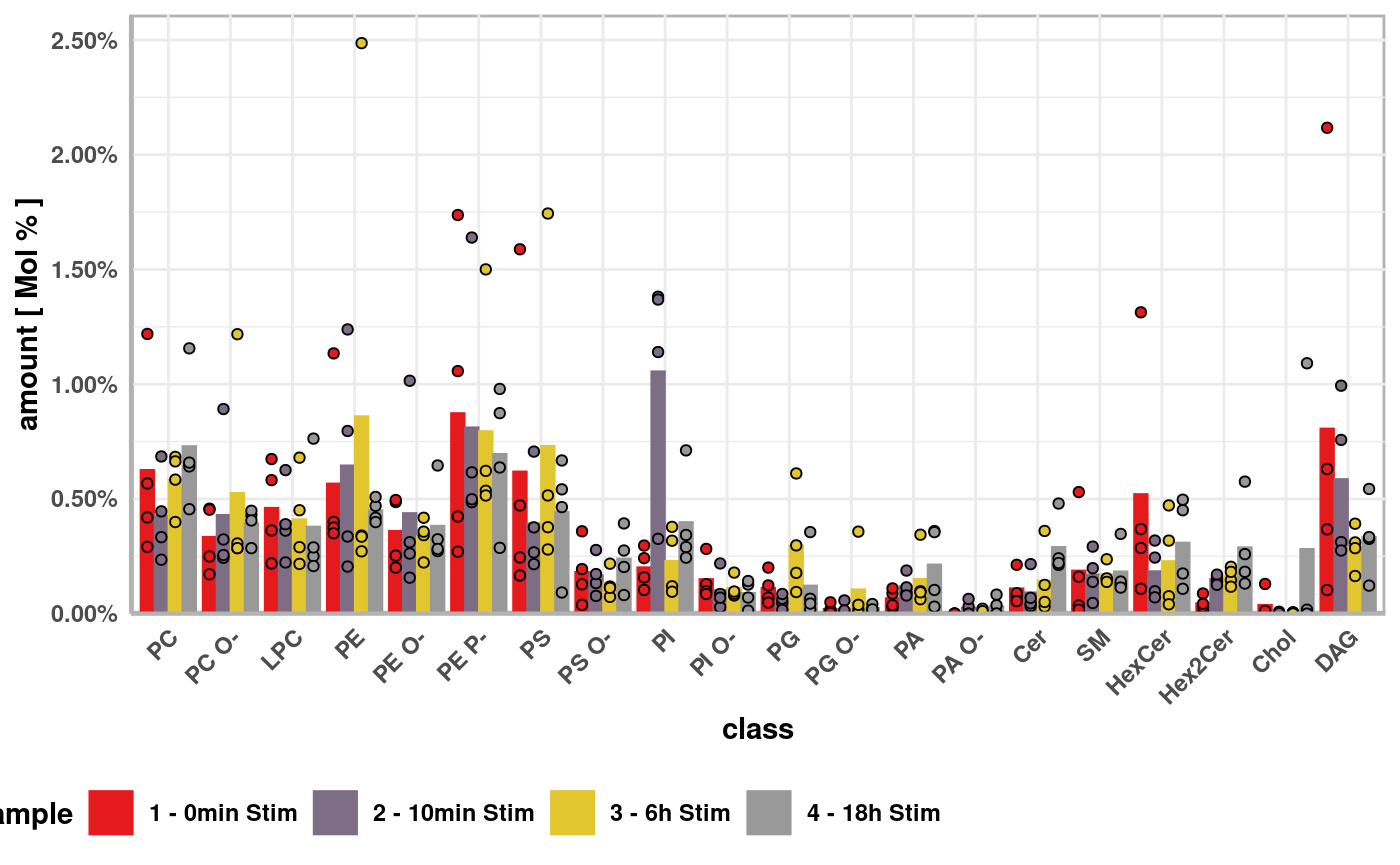
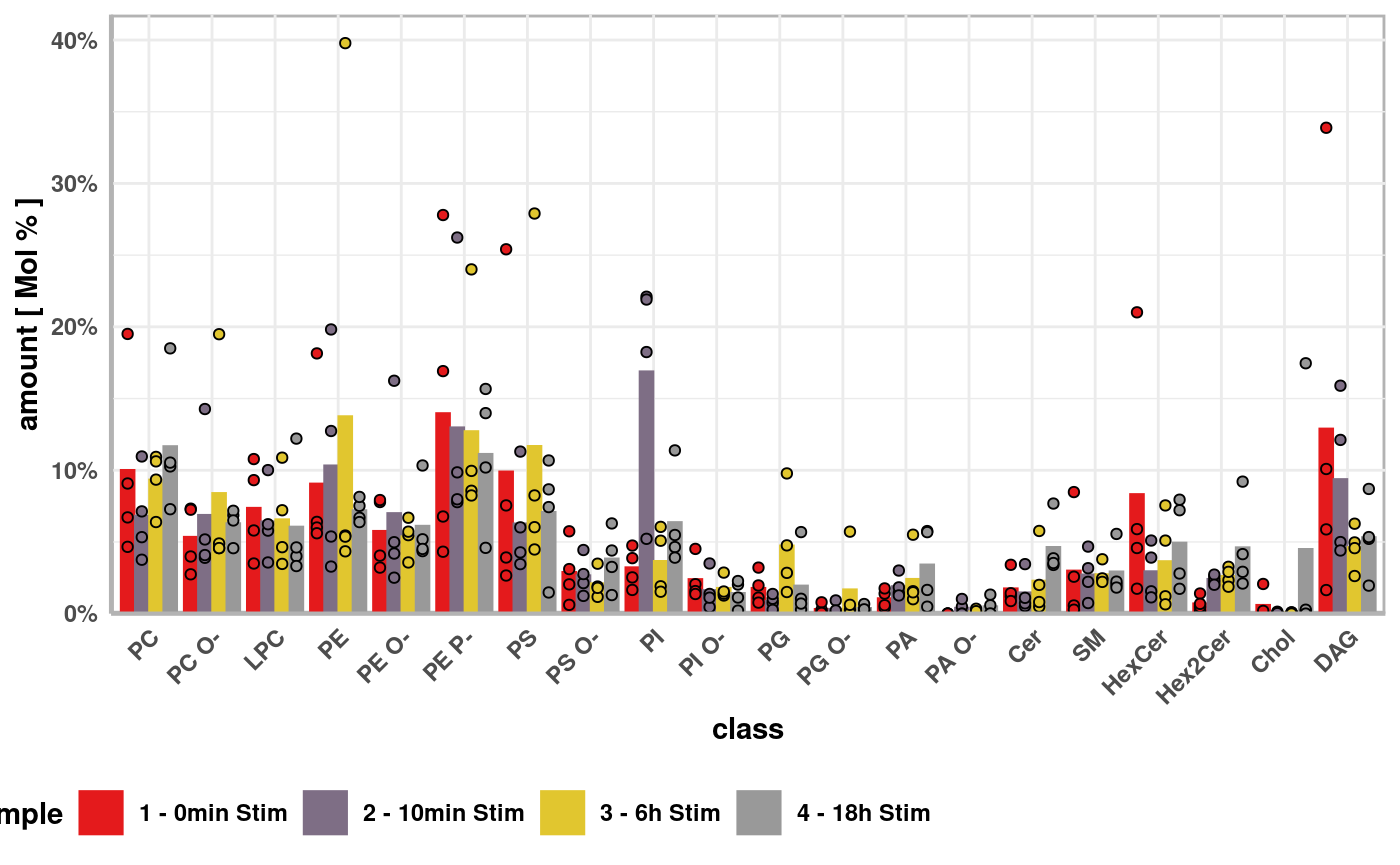
update documentation

diff --git a/docs/articles/Data-processing-in-ShinyLipids.html b/docs/articles/Data-processing-in-ShinyLipids.html
@@ -136,30 +136,30 @@
   <span class="fu"><a href="../reference/addLipidProperties.html">addLipidProperties</a></span>() <span class="kw">%&gt;%</span>
   <span class="fu"><a href="../reference/standardizeWithinTechnicalReplicatesIf.html">standardizeWithinTechnicalReplicatesIf</a></span>(<span class="no">input</span>) <span class="kw">%&gt;%</span>
   <span class="fu"><a href="../reference/filterRawDataFor.html">filterRawDataFor</a></span>(<span class="no">input</span>) <span class="kw">%&gt;%</span>
-  <span class="fu"><a href="../reference/standardizeRawDataWithin.html">standardizeRawDataWithin</a></span>(<span class="no">input</span>) <span class="kw">%&gt;%</span>
+  <span class="fu"><a href="../reference/standardizeWithin.html">standardizeWithin</a></span>(<span class="no">input</span>) <span class="kw">%&gt;%</span>
   <span class="fu"><a href="../reference/createPlotData.html">createPlotData</a></span>(<span class="no">input</span>)
 
 <span class="fu"><a href="https://rdrr.io/r/utils/head.html">head</a></span>(<span class="no">plotData</span>)
 <span class="co">#&gt; # A tibble: 6 x 4</span>
 <span class="co">#&gt;   class sample         sample_replicate value</span>
 <span class="co">#&gt;   &lt;fct&gt; &lt;fct&gt;          &lt;fct&gt;            &lt;dbl&gt;</span>
-<span class="co">#&gt; 1 PC    1 - 0min Stim  1 - 0min Stim_A  0.567</span>
-<span class="co">#&gt; 2 PC    1 - 0min Stim  1 - 0min Stim_B  0.420</span>
-<span class="co">#&gt; 3 PC    1 - 0min Stim  1 - 0min Stim_C  0.291</span>
-<span class="co">#&gt; 4 PC    1 - 0min Stim  1 - 0min Stim_D  1.22 </span>
-<span class="co">#&gt; 5 PC    2 - 10min Stim 2 - 10min Stim_A 0.235</span>
-<span class="co">#&gt; 6 PC    2 - 10min Stim 2 - 10min Stim_B 0.333</span></pre></body></html></div>
+<span class="co">#&gt; 1 PC    1 - 0min Stim  1 - 0min Stim_A   9.08</span>
+<span class="co">#&gt; 2 PC    1 - 0min Stim  1 - 0min Stim_B   6.71</span>
+<span class="co">#&gt; 3 PC    1 - 0min Stim  1 - 0min Stim_C   4.66</span>
+<span class="co">#&gt; 4 PC    1 - 0min Stim  1 - 0min Stim_D  19.5 </span>
+<span class="co">#&gt; 5 PC    2 - 10min Stim 2 - 10min Stim_A  3.76</span>
+<span class="co">#&gt; 6 PC    2 - 10min Stim 2 - 10min Stim_B  5.34</span></pre></body></html></div>
 <div class="sourceCode" id="cb7"><html><body><pre class="r"><span class="no">meanPlotData</span> <span class="kw">&lt;-</span> <span class="fu"><a href="../reference/summarisePlotData.html">summarisePlotData</a></span>(<span class="no">plotData</span>, <span class="no">input</span>)
 <span class="fu"><a href="https://rdrr.io/r/utils/head.html">head</a></span>(<span class="no">meanPlotData</span>)
 <span class="co">#&gt; # A tibble: 6 x 8</span>
-<span class="co">#&gt;   class sample            SD    SEM     N value CI_lower CI_upper</span>
-<span class="co">#&gt;   &lt;fct&gt; &lt;fct&gt;          &lt;dbl&gt;  &lt;dbl&gt; &lt;int&gt; &lt;dbl&gt;    &lt;dbl&gt;    &lt;dbl&gt;</span>
-<span class="co">#&gt; 1 PC    1 - 0min Stim  0.412 0.103      4 0.624    0.296    0.952</span>
-<span class="co">#&gt; 2 PC    2 - 10min Stim 0.194 0.0484     4 0.425    0.271    0.579</span>
-<span class="co">#&gt; 3 PC    3 - 6h Stim    0.129 0.0324     4 0.583    0.480    0.686</span>
-<span class="co">#&gt; 4 PC    4 - 18h Stim   0.300 0.0750     4 0.728    0.489    0.967</span>
-<span class="co">#&gt; 5 PC O- 1 - 0min Stim  0.145 0.0363     4 0.333    0.218    0.448</span>
-<span class="co">#&gt; 6 PC O- 2 - 10min Stim 0.311 0.0777     4 0.429    0.181    0.676</span></pre></body></html></div>
+<span class="co">#&gt;   class sample            SD   SEM     N value CI_lower CI_upper</span>
+<span class="co">#&gt;   &lt;fct&gt; &lt;fct&gt;          &lt;dbl&gt; &lt;dbl&gt; &lt;int&gt; &lt;dbl&gt;    &lt;dbl&gt;    &lt;dbl&gt;</span>
+<span class="co">#&gt; 1 PC    1 - 0min Stim   6.60 1.65      4  9.99     4.74    15.2 </span>
+<span class="co">#&gt; 2 PC    2 - 10min Stim  3.10 0.775     4  6.80     4.33     9.26</span>
+<span class="co">#&gt; 3 PC    3 - 6h Stim     2.07 0.518     4  9.32     7.67    11.0 </span>
+<span class="co">#&gt; 4 PC    4 - 18h Stim    4.80 1.20      4 11.6      7.83    15.5 </span>
+<span class="co">#&gt; 5 PC O- 1 - 0min Stim   2.32 0.580     4  5.33     3.48     7.17</span>
+<span class="co">#&gt; 6 PC O- 2 - 10min Stim  4.97 1.24      4  6.86     2.90    10.8</span></pre></body></html></div>
 <div class="sourceCode" id="cb8"><html><body><pre class="r"><span class="no">plt</span> <span class="kw">&lt;-</span> <span class="fu"><a href="../reference/createMainPlot.html">createMainPlot</a></span>(<span class="kw">plotData</span>            <span class="kw">=</span> <span class="no">plotData</span>,
                       <span class="kw">meanPlotData</span>        <span class="kw">=</span> <span class="no">meanPlotData</span>,
                       <span class="kw">pairwiseComparisons</span> <span class="kw">=</span> <span class="kw">NULL</span>,

diff --git a/docs/articles/Technical-aspects.html b/docs/articles/Technical-aspects.html
@@ -113,8 +113,8 @@
 <div id="how-data-flows-in-shinylipids" class="section level1">
 <h1 class="hasAnchor">
 <a href="#how-data-flows-in-shinylipids" class="anchor"></a>How data flows in ShinyLipids</h1>
-<div id="htmlwidget-a2ab9fd659c4cae1abc1" style="width:700px;height:432.632880098888px;" class="grViz html-widget"></div>
-<script type="application/json" data-for="htmlwidget-a2ab9fd659c4cae1abc1">{"x":{"diagram":"digraph {\n\ngraph [layout = dot, rankdir = TB]\nnode [shape = rectangle, style = filled, fillcolor = cadetblue1]\nedge [color = darkslategrey]\n\ndb [label = \"Database\", shape = cylinder, fillcolor = cadetblue]\n\nui [label = \"UI\", fillcolor = darkslategrey,\n  fontcolor = white]\nip [label = \"input :: list\", shape = circle,\n  fillcolor = darkslategrey,\n  fontcolor = white]\nvoid [label = \"()\", shape = circle,\n  fillcolor = white]\ndh [label = \"downloadHandlers\", shape = invhouse,\n  fillcolor = white]\n\n\nvoid -> ui [label = \"defaultInput()\",\n  color = black]\nui -> ip [color = black, label = \"user action\"]\n\ndb -> metaData [label = \"collectMetadata\"]\ndb -> rawData [label = \"collectRawData %>% imputeMissingIf %>% addLipidProperties\"]\nrawData -> filteredData [label = \"standardizeWithinTechnicalReplicatesIf %>% filterRawDataFor\"]\n\nfilteredData -> mainData [\n  label = \"standardizeRawDataWithin\"\n]\nmainData -> plotData [\n  label = \"createPlotData\"\n]\nplotData -> meanPlotData [\n  label = \"summarisePlotData\"\n]\nplotData -> pairwiseComparisons [\n  label = \"doAllPairwiseComparisons\"\n]\npairwiseComparisons -> mainPlot\nmeanPlotData -> mainPlot\nplotData -> mainPlot [\n  label = \"createMainPlot\"\n]\nplotData -> heatmapPlot [\n  label = \"createHeatmap\"\n]\nplotData -> wideData [\n  label = \"createWideData\"\n]\nwideData -> pcaPrep [\n  label = \"createPcaPrep\"\n]\npcaPrep -> pcaTidy [color = black]\npcaPrep -> pcaJuice [color = black]\n{pcaTidy, pcaJuice} -> pcaScoresPlot\npcaTidy -> pcaLoadinsPlot\n\nmetaData -> dh\nrawData -> dh\nmainData -> dh\nmeanPlotData -> dh\nmainPlot -> dh\nheatmapPlot -> dh\npcaScoresPlot -> dh\npcaLoadinsPlot -> dh\n\n\n}","config":{"engine":"dot","options":null}},"evals":[],"jsHooks":[]}</script>
+<div id="htmlwidget-2580c541581a811fb32a" style="width:700px;height:432.632880098888px;" class="grViz html-widget"></div>
+<script type="application/json" data-for="htmlwidget-2580c541581a811fb32a">{"x":{"diagram":"digraph {\n\ngraph [layout = dot, rankdir = TB]\nnode [shape = rectangle, style = filled, fillcolor = cadetblue1]\nedge [color = darkslategrey]\n\ndb [label = \"Database\", shape = cylinder, fillcolor = cadetblue]\n\nui [label = \"UI\", fillcolor = darkslategrey,\n  fontcolor = white]\nip [label = \"input :: list\", shape = circle,\n  fillcolor = darkslategrey,\n  fontcolor = white]\nvoid [label = \"()\", shape = circle,\n  fillcolor = white]\ndh [label = \"downloadHandlers\", shape = invhouse,\n  fillcolor = white]\n\n\nvoid -> ui [label = \"defaultInput()\",\n  color = black]\nui -> ip [color = black, label = \"user action\"]\n\ndb -> metaData [label = \"collectMetadata\"]\ndb -> rawData [label = \"collectRawData %>% imputeMissingIf %>% addLipidProperties\"]\nrawData -> filteredData [label = \"standardizeWithinTechnicalReplicatesIf %>% filterRawDataFor\"]\n\nfilteredData -> mainData [\n  label = \"standardizeWithin\"\n]\nmainData -> plotData [\n  label = \"createPlotData\"\n]\nplotData -> meanPlotData [\n  label = \"summarisePlotData\"\n]\nplotData -> pairwiseComparisons [\n  label = \"doAllPairwiseComparisons\"\n]\npairwiseComparisons -> mainPlot\nmeanPlotData -> mainPlot\nplotData -> mainPlot [\n  label = \"createMainPlot\"\n]\nplotData -> heatmapPlot [\n  label = \"createHeatmap\"\n]\nplotData -> wideData [\n  label = \"createWideData\"\n]\nwideData -> pcaPrep [\n  label = \"createPcaPrep\"\n]\npcaPrep -> pcaTidy [color = black]\npcaPrep -> pcaJuice [color = black]\n{pcaTidy, pcaJuice} -> pcaScoresPlot\npcaTidy -> pcaLoadinsPlot\n\nmetaData -> dh\nrawData -> dh\nmainData -> dh\nmeanPlotData -> dh\nmainPlot -> dh\nheatmapPlot -> dh\npcaScoresPlot -> dh\npcaLoadinsPlot -> dh\n\n\n}","config":{"engine":"dot","options":null}},"evals":[],"jsHooks":[]}</script>
 </div>
 <div class="footnotes">
 <hr>

diff --git a/docs/reference/createMainPlot.html b/docs/reference/createMainPlot.html
@@ -133,7 +133,13 @@
     <p>Uses ggplot2.</p>
     </div>
 
-    <pre class="usage"><span class='fu'>createMainPlot</span>(<span class='no'>plotData</span>, <span class='no'>meanPlotData</span>, <span class='no'>pairwiseComparisons</span>, <span class='no'>input</span>)</pre>
+    <pre class="usage"><span class='fu'>createMainPlot</span>(
+  <span class='no'>plotData</span>,
+  <span class='no'>meanPlotData</span>,
+  <span class='no'>pairwiseComparisons</span>,
+  <span class='no'>input</span>,
+  <span class='kw'>ranges</span> <span class='kw'>=</span> <span class='fu'><a href='https://rdrr.io/r/base/list.html'>list</a></span>(<span class='kw'>x</span> <span class='kw'>=</span> <span class='kw'>NULL</span>, <span class='kw'>y</span> <span class='kw'>=</span> <span class='kw'>NULL</span>)
+)</pre>
 
     <h2 class="hasAnchor" id="arguments"><a class="anchor" href="#arguments"></a>Arguments</h2>
     <table class="ref-arguments">

diff --git a/docs/reference/index.html b/docs/reference/index.html
@@ -191,7 +191,7 @@
       </tr><tr>
         
         <td>
-          <p><code><a href="standardizeRawDataWithin.html">standardizeRawDataWithin()</a></code> </p>
+          <p><code><a href="standardizeWithin.html">standardizeWithin()</a></code> </p>
         </td>
         <td><p>Standardize raw data</p></td>
       </tr><tr>
